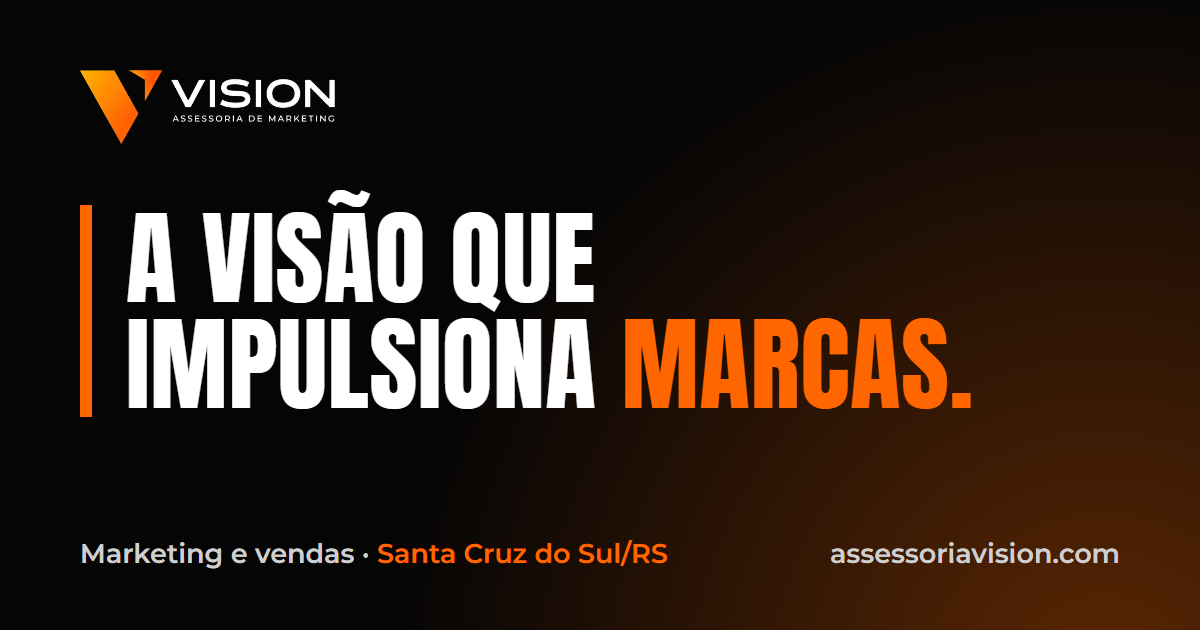
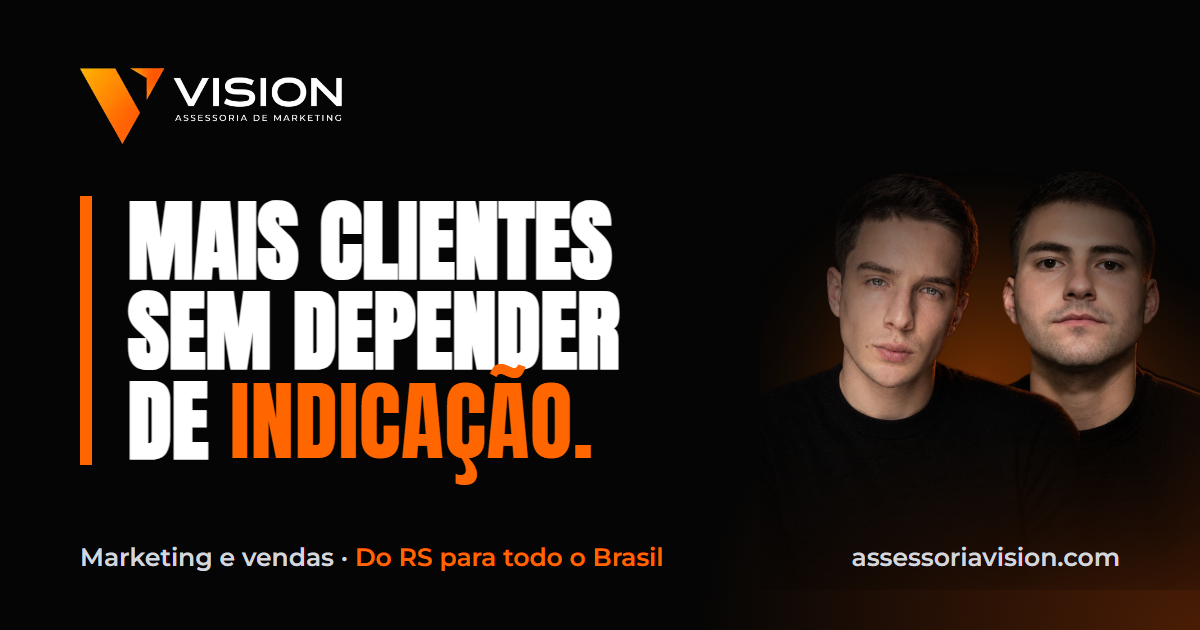
Imagem de compartilhamento nova: Mais clientes sem depender de indicação

diff --git a/index.html b/index.html
@@ -13,19 +13,19 @@
 <meta property="og:title" content="Assessoria Vision | Marketing em Santa Cruz do Sul">
 <meta property="og:description" content="Assessoria de marketing e vendas em Santa Cruz do Sul para empresas que querem ser vistas, lembradas e escolhidas.">
 <meta property="og:url" content="https://assessoriavision.com/">
-<meta property="og:image" content="https://assessoriavision.com/previa.png">
+<meta property="og:image" content="https://assessoriavision.com/previa.png?v=2">
 <meta property="og:image:width" content="1200">
 <meta property="og:image:height" content="630">
-<meta property="og:image:alt" content="Assessoria Vision: a visão que impulsiona marcas.">
+<meta property="og:image:alt" content="Assessoria Vision: mais clientes sem depender de indicação.">
 <meta name="twitter:card" content="summary_large_image">
-<meta name="twitter:image" content="https://assessoriavision.com/previa.png">
+<meta name="twitter:image" content="https://assessoriavision.com/previa.png?v=2">
 <link rel="canonical" href="https://assessoriavision.com/">
 <link rel="icon" type="image/png" sizes="32x32" href="/icone-32.png">
 <link rel="icon" href="/favicon.ico" sizes="16x16 32x32">
 <link rel="icon" type="image/png" sizes="48x48" href="/icone-48.png">
 <link rel="icon" type="image/png" sizes="192x192" href="/icone-192.png">
 <link rel="apple-touch-icon" sizes="180x180" href="/icone-180.png">
-<script type="application/ld+json">{"@context": "https://schema.org", "@type": "ProfessionalService", "name": "Assessoria Vision", "url": "https://assessoriavision.com/", "logo": "https://assessoriavision.com/icone-512.png", "image": "https://assessoriavision.com/previa.png", "description": "Assessoria de marketing e vendas para empresas de Santa Cruz do Sul, do Vale do Rio Pardo e de todo o Rio Grande do Sul.", "areaServed": [{"@type": "City", "name": "Santa Cruz do Sul"}, {"@type": "City", "name": "Venâncio Aires"}, {"@type": "City", "name": "Vera Cruz"}, {"@type": "City", "name": "Rio Pardo"}, {"@type": "City", "name": "Candelária"}, {"@type": "City", "name": "Sinimbu"}, {"@type": "City", "name": "Passo do Sobrado"}, {"@type": "State", "name": "Rio Grande do Sul"}, {"@type": "Country", "name": "Brasil"}], "telephone": "+55 51 99783-0110", "email": "ctt.agenciavision@gmail.com", "address": {"@type": "PostalAddress", "addressLocality": "Santa Cruz do Sul", "addressRegion": "RS", "addressCountry": "BR"}, "openingHoursSpecification": [{"@type": "OpeningHoursSpecification", "dayOfWeek": ["Monday", "Tuesday", "Wednesday", "Thursday", "Friday"], "opens": "08:00", "closes": "19:00"}], "sameAs": ["https://www.instagram.com/vision.assessoria"]}</script>
+<script type="application/ld+json">{"@context": "https://schema.org", "@type": "ProfessionalService", "name": "Assessoria Vision", "url": "https://assessoriavision.com/", "logo": "https://assessoriavision.com/icone-512.png", "image": "https://assessoriavision.com/previa.png?v=2", "description": "Assessoria de marketing e vendas para empresas de Santa Cruz do Sul, do Vale do Rio Pardo e de todo o Rio Grande do Sul.", "areaServed": [{"@type": "City", "name": "Santa Cruz do Sul"}, {"@type": "City", "name": "Venâncio Aires"}, {"@type": "City", "name": "Vera Cruz"}, {"@type": "City", "name": "Rio Pardo"}, {"@type": "City", "name": "Candelária"}, {"@type": "City", "name": "Sinimbu"}, {"@type": "City", "name": "Passo do Sobrado"}, {"@type": "State", "name": "Rio Grande do Sul"}, {"@type": "Country", "name": "Brasil"}], "telephone": "+55 51 99783-0110", "email": "ctt.agenciavision@gmail.com", "address": {"@type": "PostalAddress", "addressLocality": "Santa Cruz do Sul", "addressRegion": "RS", "addressCountry": "BR"}, "openingHoursSpecification": [{"@type": "OpeningHoursSpecification", "dayOfWeek": ["Monday", "Tuesday", "Wednesday", "Thursday", "Friday"], "opens": "08:00", "closes": "19:00"}], "sameAs": ["https://www.instagram.com/vision.assessoria"]}</script>
 <script type="application/ld+json">{"@context":"https://schema.org","@type":"FAQPage","mainEntity":[{"@type":"Question","name":"Quanto custa o serviço?","acceptedAnswer":{"@type":"Answer","text":"O valor depende do que a sua empresa precisa: quais serviços, quantas redes sociais e qual o objetivo. Por isso começamos com uma conversa e montamos uma proposta sob medida."}},{"@type":"Question","name":"Em quanto tempo vou ver resultado?","acceptedAnswer":{"@type":"Answer","text":"Depende do ponto de partida e do objetivo. Anúncios costumam dar os primeiros sinais mais rápido, enquanto presença e reconhecimento de marca se constroem ao longo de meses. Acompanhamos os números para ajustar o que for preciso."}},{"@type":"Question","name":"Preciso já ter perfil, logo ou site?","acceptedAnswer":{"@type":"Answer","text":"Não. Se você ainda não tem, criamos a identidade visual e organizamos a sua presença. Se já tem, melhoramos o que existe."}},{"@type":"Question","name":"O que eu preciso fornecer para começar?","acceptedAnswer":{"@type":"Answer","text":"Só o básico sobre a sua empresa: o que você vende, para quem vende e aonde quer chegar. Do resto cuidamos nós."}},{"@type":"Question","name":"Posso contratar só um serviço?","acceptedAnswer":{"@type":"Answer","text":"Pode. Você escolhe só o que precisa, como gestão de redes sociais ou tráfego pago, ou combina vários serviços."}},{"@type":"Question","name":"A Vision atende o meu tipo de negócio?","acceptedAnswer":{"@type":"Answer","text":"Atendemos comércio, alimentação, saúde, beleza, serviços e indústria, em todo o Brasil. Se a sua empresa vende para pessoas, a gente consegue ajudar."}},{"@type":"Question","name":"Como eu começo?","acceptedAnswer":{"@type":"Answer","text":"Peça o diagnóstico gratuito: você preenche os seus dados em menos de 1 minuto e a gente te liga em até 24 horas para mostrar, em 10 minutos, por onde começar."}}]}</script>
 <script type="application/ld+json">{"@context": "https://schema.org", "@type": "WebSite", "name": "Assessoria Vision", "alternateName": ["Vision", "Vision Assessoria de Marketing"], "url": "https://assessoriavision.com/"}</script>
 <!-- Google Analytics 4 com modo de consentimento: só mede depois que o visitante aceita -->

diff --git a/diagnostico/index.html b/diagnostico/index.html
@@ -13,19 +13,19 @@
 <meta property="og:title" content="Diagnóstico gratuito | Assessoria Vision">
 <meta property="og:description" content="Descubra onde a sua empresa está perdendo cliente. Responda algumas perguntas e receba o diagnóstico gratuito.">
 <meta property="og:url" content="https://assessoriavision.com/diagnostico/">
-<meta property="og:image" content="https://assessoriavision.com/previa.png">
+<meta property="og:image" content="https://assessoriavision.com/previa.png?v=2">
 <meta property="og:image:width" content="1200">
 <meta property="og:image:height" content="630">
-<meta property="og:image:alt" content="Assessoria Vision: a visão que impulsiona marcas.">
+<meta property="og:image:alt" content="Assessoria Vision: mais clientes sem depender de indicação.">
 <meta name="twitter:card" content="summary_large_image">
-<meta name="twitter:image" content="https://assessoriavision.com/previa.png">
+<meta name="twitter:image" content="https://assessoriavision.com/previa.png?v=2">
 <link rel="canonical" href="https://assessoriavision.com/diagnostico/">
 <link rel="icon" type="image/png" sizes="32x32" href="/icone-32.png">
 <link rel="icon" href="/favicon.ico" sizes="16x16 32x32">
 <link rel="icon" type="image/png" sizes="48x48" href="/icone-48.png">
 <link rel="icon" type="image/png" sizes="192x192" href="/icone-192.png">
 <link rel="apple-touch-icon" sizes="180x180" href="/icone-180.png">
-<script type="application/ld+json">{"@context": "https://schema.org", "@type": "ProfessionalService", "name": "Assessoria Vision", "url": "https://assessoriavision.com/", "logo": "https://assessoriavision.com/icone-512.png", "image": "https://assessoriavision.com/previa.png", "description": "Assessoria de marketing e vendas para empresas de Santa Cruz do Sul, do Vale do Rio Pardo e de todo o Rio Grande do Sul.", "areaServed": [{"@type": "City", "name": "Santa Cruz do Sul"}, {"@type": "City", "name": "Venâncio Aires"}, {"@type": "City", "name": "Vera Cruz"}, {"@type": "City", "name": "Rio Pardo"}, {"@type": "City", "name": "Candelária"}, {"@type": "City", "name": "Sinimbu"}, {"@type": "City", "name": "Passo do Sobrado"}, {"@type": "State", "name": "Rio Grande do Sul"}, {"@type": "Country", "name": "Brasil"}], "telephone": "+55 51 99783-0110", "email": "ctt.agenciavision@gmail.com", "address": {"@type": "PostalAddress", "addressLocality": "Santa Cruz do Sul", "addressRegion": "RS", "addressCountry": "BR"}, "openingHoursSpecification": [{"@type": "OpeningHoursSpecification", "dayOfWeek": ["Monday", "Tuesday", "Wednesday", "Thursday", "Friday"], "opens": "08:00", "closes": "19:00"}], "sameAs": ["https://www.instagram.com/vision.assessoria"]}</script>
+<script type="application/ld+json">{"@context": "https://schema.org", "@type": "ProfessionalService", "name": "Assessoria Vision", "url": "https://assessoriavision.com/", "logo": "https://assessoriavision.com/icone-512.png", "image": "https://assessoriavision.com/previa.png?v=2", "description": "Assessoria de marketing e vendas para empresas de Santa Cruz do Sul, do Vale do Rio Pardo e de todo o Rio Grande do Sul.", "areaServed": [{"@type": "City", "name": "Santa Cruz do Sul"}, {"@type": "City", "name": "Venâncio Aires"}, {"@type": "City", "name": "Vera Cruz"}, {"@type": "City", "name": "Rio Pardo"}, {"@type": "City", "name": "Candelária"}, {"@type": "City", "name": "Sinimbu"}, {"@type": "City", "name": "Passo do Sobrado"}, {"@type": "State", "name": "Rio Grande do Sul"}, {"@type": "Country", "name": "Brasil"}], "telephone": "+55 51 99783-0110", "email": "ctt.agenciavision@gmail.com", "address": {"@type": "PostalAddress", "addressLocality": "Santa Cruz do Sul", "addressRegion": "RS", "addressCountry": "BR"}, "openingHoursSpecification": [{"@type": "OpeningHoursSpecification", "dayOfWeek": ["Monday", "Tuesday", "Wednesday", "Thursday", "Friday"], "opens": "08:00", "closes": "19:00"}], "sameAs": ["https://www.instagram.com/vision.assessoria"]}</script>
 <script type="application/ld+json">{"@context": "https://schema.org", "@type": "WebSite", "name": "Assessoria Vision", "alternateName": ["Vision", "Vision Assessoria de Marketing"], "url": "https://assessoriavision.com/"}</script>
 <!-- Google Analytics 4 com modo de consentimento: só mede depois que o visitante aceita -->
 <script>

diff --git a/quem-somos/index.html b/quem-somos/index.html
@@ -13,19 +13,19 @@
 <meta property="og:title" content="Quem somos | Assessoria Vision">
 <meta property="og:description" content="Conheça os dois sócios por trás da Assessoria Vision e como eles trabalham lado a lado com o dono da empresa.">
 <meta property="og:url" content="https://assessoriavision.com/quem-somos/">
-<meta property="og:image" content="https://assessoriavision.com/previa.png">
+<meta property="og:image" content="https://assessoriavision.com/previa.png?v=2">
 <meta property="og:image:width" content="1200">
 <meta property="og:image:height" content="630">
-<meta property="og:image:alt" content="Assessoria Vision: a visão que impulsiona marcas.">
+<meta property="og:image:alt" content="Assessoria Vision: mais clientes sem depender de indicação.">
 <meta name="twitter:card" content="summary_large_image">
-<meta name="twitter:image" content="https://assessoriavision.com/previa.png">
+<meta name="twitter:image" content="https://assessoriavision.com/previa.png?v=2">
 <link rel="canonical" href="https://assessoriavision.com/quem-somos/">
 <link rel="icon" type="image/png" sizes="32x32" href="/icone-32.png">
 <link rel="icon" href="/favicon.ico" sizes="16x16 32x32">
 <link rel="icon" type="image/png" sizes="48x48" href="/icone-48.png">
 <link rel="icon" type="image/png" sizes="192x192" href="/icone-192.png">
 <link rel="apple-touch-icon" sizes="180x180" href="/icone-180.png">
-<script type="application/ld+json">{"@context": "https://schema.org", "@type": "ProfessionalService", "name": "Assessoria Vision", "url": "https://assessoriavision.com/", "logo": "https://assessoriavision.com/icone-512.png", "image": "https://assessoriavision.com/previa.png", "description": "Assessoria de marketing e vendas para empresas de Santa Cruz do Sul, do Vale do Rio Pardo e de todo o Rio Grande do Sul.", "areaServed": [{"@type": "City", "name": "Santa Cruz do Sul"}, {"@type": "City", "name": "Venâncio Aires"}, {"@type": "City", "name": "Vera Cruz"}, {"@type": "City", "name": "Rio Pardo"}, {"@type": "City", "name": "Candelária"}, {"@type": "City", "name": "Sinimbu"}, {"@type": "City", "name": "Passo do Sobrado"}, {"@type": "State", "name": "Rio Grande do Sul"}, {"@type": "Country", "name": "Brasil"}], "telephone": "+55 51 99783-0110", "email": "ctt.agenciavision@gmail.com", "address": {"@type": "PostalAddress", "addressLocality": "Santa Cruz do Sul", "addressRegion": "RS", "addressCountry": "BR"}, "openingHoursSpecification": [{"@type": "OpeningHoursSpecification", "dayOfWeek": ["Monday", "Tuesday", "Wednesday", "Thursday", "Friday"], "opens": "08:00", "closes": "19:00"}], "sameAs": ["https://www.instagram.com/vision.assessoria"]}</script>
+<script type="application/ld+json">{"@context": "https://schema.org", "@type": "ProfessionalService", "name": "Assessoria Vision", "url": "https://assessoriavision.com/", "logo": "https://assessoriavision.com/icone-512.png", "image": "https://assessoriavision.com/previa.png?v=2", "description": "Assessoria de marketing e vendas para empresas de Santa Cruz do Sul, do Vale do Rio Pardo e de todo o Rio Grande do Sul.", "areaServed": [{"@type": "City", "name": "Santa Cruz do Sul"}, {"@type": "City", "name": "Venâncio Aires"}, {"@type": "City", "name": "Vera Cruz"}, {"@type": "City", "name": "Rio Pardo"}, {"@type": "City", "name": "Candelária"}, {"@type": "City", "name": "Sinimbu"}, {"@type": "City", "name": "Passo do Sobrado"}, {"@type": "State", "name": "Rio Grande do Sul"}, {"@type": "Country", "name": "Brasil"}], "telephone": "+55 51 99783-0110", "email": "ctt.agenciavision@gmail.com", "address": {"@type": "PostalAddress", "addressLocality": "Santa Cruz do Sul", "addressRegion": "RS", "addressCountry": "BR"}, "openingHoursSpecification": [{"@type": "OpeningHoursSpecification", "dayOfWeek": ["Monday", "Tuesday", "Wednesday", "Thursday", "Friday"], "opens": "08:00", "closes": "19:00"}], "sameAs": ["https://www.instagram.com/vision.assessoria"]}</script>
 <script type="application/ld+json">{"@context": "https://schema.org", "@type": "WebSite", "name": "Assessoria Vision", "alternateName": ["Vision", "Vision Assessoria de Marketing"], "url": "https://assessoriavision.com/"}</script>
 <!-- Google Analytics 4 com modo de consentimento: só mede depois que o visitante aceita -->
 <script>

diff --git a/obrigado/index.html b/obrigado/index.html
@@ -14,19 +14,19 @@
 <meta property="og:title" content="Pedido recebido | Assessoria Vision">
 <meta property="og:description" content="Recebemos o seu pedido de diagnóstico. A Vision liga em até 24 horas.">
 <meta property="og:url" content="https://assessoriavision.com/obrigado/">
-<meta property="og:image" content="https://assessoriavision.com/previa.png">
+<meta property="og:image" content="https://assessoriavision.com/previa.png?v=2">
 <meta property="og:image:width" content="1200">
 <meta property="og:image:height" content="630">
-<meta property="og:image:alt" content="Assessoria Vision: a visão que impulsiona marcas.">
+<meta property="og:image:alt" content="Assessoria Vision: mais clientes sem depender de indicação.">
 <meta name="twitter:card" content="summary_large_image">
-<meta name="twitter:image" content="https://assessoriavision.com/previa.png">
+<meta name="twitter:image" content="https://assessoriavision.com/previa.png?v=2">
 <link rel="canonical" href="https://assessoriavision.com/obrigado/">
 <link rel="icon" type="image/png" sizes="32x32" href="/icone-32.png">
 <link rel="icon" href="/favicon.ico" sizes="16x16 32x32">
 <link rel="icon" type="image/png" sizes="48x48" href="/icone-48.png">
 <link rel="icon" type="image/png" sizes="192x192" href="/icone-192.png">
 <link rel="apple-touch-icon" sizes="180x180" href="/icone-180.png">
-<script type="application/ld+json">{"@context": "https://schema.org", "@type": "ProfessionalService", "name": "Assessoria Vision", "url": "https://assessoriavision.com/", "logo": "https://assessoriavision.com/icone-512.png", "image": "https://assessoriavision.com/previa.png", "description": "Assessoria de marketing e vendas para empresas de Santa Cruz do Sul, do Vale do Rio Pardo e de todo o Rio Grande do Sul.", "areaServed": [{"@type": "City", "name": "Santa Cruz do Sul"}, {"@type": "City", "name": "Venâncio Aires"}, {"@type": "City", "name": "Vera Cruz"}, {"@type": "City", "name": "Rio Pardo"}, {"@type": "City", "name": "Candelária"}, {"@type": "City", "name": "Sinimbu"}, {"@type": "City", "name": "Passo do Sobrado"}, {"@type": "State", "name": "Rio Grande do Sul"}], "telephone": "+55 51 99783-0110", "email": "ctt.agenciavision@gmail.com", "address": {"@type": "PostalAddress", "addressLocality": "Santa Cruz do Sul", "addressRegion": "RS", "addressCountry": "BR"}, "openingHoursSpecification": [{"@type": "OpeningHoursSpecification", "dayOfWeek": ["Monday", "Tuesday", "Wednesday", "Thursday", "Friday"], "opens": "08:00", "closes": "19:00"}], "sameAs": ["https://www.instagram.com/vision.assessoria"]}</script>
+<script type="application/ld+json">{"@context": "https://schema.org", "@type": "ProfessionalService", "name": "Assessoria Vision", "url": "https://assessoriavision.com/", "logo": "https://assessoriavision.com/icone-512.png", "image": "https://assessoriavision.com/previa.png?v=2", "description": "Assessoria de marketing e vendas para empresas de Santa Cruz do Sul, do Vale do Rio Pardo e de todo o Rio Grande do Sul.", "areaServed": [{"@type": "City", "name": "Santa Cruz do Sul"}, {"@type": "City", "name": "Venâncio Aires"}, {"@type": "City", "name": "Vera Cruz"}, {"@type": "City", "name": "Rio Pardo"}, {"@type": "City", "name": "Candelária"}, {"@type": "City", "name": "Sinimbu"}, {"@type": "City", "name": "Passo do Sobrado"}, {"@type": "State", "name": "Rio Grande do Sul"}], "telephone": "+55 51 99783-0110", "email": "ctt.agenciavision@gmail.com", "address": {"@type": "PostalAddress", "addressLocality": "Santa Cruz do Sul", "addressRegion": "RS", "addressCountry": "BR"}, "openingHoursSpecification": [{"@type": "OpeningHoursSpecification", "dayOfWeek": ["Monday", "Tuesday", "Wednesday", "Thursday", "Friday"], "opens": "08:00", "closes": "19:00"}], "sameAs": ["https://www.instagram.com/vision.assessoria"]}</script>
 <script type="application/ld+json">{"@context": "https://schema.org", "@type": "WebSite", "name": "Assessoria Vision", "alternateName": ["Vision", "Vision Assessoria de Marketing"], "url": "https://assessoriavision.com/"}</script>
 <!-- Google Analytics 4 com modo de consentimento: só mede depois que o visitante aceita -->
 <script>

diff --git a/404.html b/404.html
@@ -14,19 +14,19 @@
 <meta property="og:title" content="Página não encontrada | Assessoria Vision">
 <meta property="og:description" content="Esta página não existe ou mudou de endereço.">
 <meta property="og:url" content="https://assessoriavision.com/">
-<meta property="og:image" content="https://assessoriavision.com/previa.png">
+<meta property="og:image" content="https://assessoriavision.com/previa.png?v=2">
 <meta property="og:image:width" content="1200">
 <meta property="og:image:height" content="630">
-<meta property="og:image:alt" content="Assessoria Vision: a visão que impulsiona marcas.">
+<meta property="og:image:alt" content="Assessoria Vision: mais clientes sem depender de indicação.">
 <meta name="twitter:card" content="summary_large_image">
-<meta name="twitter:image" content="https://assessoriavision.com/previa.png">
+<meta name="twitter:image" content="https://assessoriavision.com/previa.png?v=2">
 <link rel="canonical" href="https://assessoriavision.com/">
 <link rel="icon" type="image/png" sizes="32x32" href="/icone-32.png">
 <link rel="icon" href="/favicon.ico" sizes="16x16 32x32">
 <link rel="icon" type="image/png" sizes="48x48" href="/icone-48.png">
 <link rel="icon" type="image/png" sizes="192x192" href="/icone-192.png">
 <link rel="apple-touch-icon" sizes="180x180" href="/icone-180.png">
-<script type="application/ld+json">{"@context": "https://schema.org", "@type": "ProfessionalService", "name": "Assessoria Vision", "url": "https://assessoriavision.com/", "logo": "https://assessoriavision.com/icone-512.png", "image": "https://assessoriavision.com/previa.png", "description": "Assessoria de marketing e vendas para empresas de Santa Cruz do Sul, do Vale do Rio Pardo e de todo o Rio Grande do Sul.", "areaServed": [{"@type": "City", "name": "Santa Cruz do Sul"}, {"@type": "City", "name": "Venâncio Aires"}, {"@type": "City", "name": "Vera Cruz"}, {"@type": "City", "name": "Rio Pardo"}, {"@type": "City", "name": "Candelária"}, {"@type": "City", "name": "Sinimbu"}, {"@type": "City", "name": "Passo do Sobrado"}, {"@type": "State", "name": "Rio Grande do Sul"}], "telephone": "+55 51 99783-0110", "email": "ctt.agenciavision@gmail.com", "address": {"@type": "PostalAddress", "addressLocality": "Santa Cruz do Sul", "addressRegion": "RS", "addressCountry": "BR"}, "openingHoursSpecification": [{"@type": "OpeningHoursSpecification", "dayOfWeek": ["Monday", "Tuesday", "Wednesday", "Thursday", "Friday"], "opens": "08:00", "closes": "19:00"}], "sameAs": ["https://www.instagram.com/vision.assessoria"]}</script>
+<script type="application/ld+json">{"@context": "https://schema.org", "@type": "ProfessionalService", "name": "Assessoria Vision", "url": "https://assessoriavision.com/", "logo": "https://assessoriavision.com/icone-512.png", "image": "https://assessoriavision.com/previa.png?v=2", "description": "Assessoria de marketing e vendas para empresas de Santa Cruz do Sul, do Vale do Rio Pardo e de todo o Rio Grande do Sul.", "areaServed": [{"@type": "City", "name": "Santa Cruz do Sul"}, {"@type": "City", "name": "Venâncio Aires"}, {"@type": "City", "name": "Vera Cruz"}, {"@type": "City", "name": "Rio Pardo"}, {"@type": "City", "name": "Candelária"}, {"@type": "City", "name": "Sinimbu"}, {"@type": "City", "name": "Passo do Sobrado"}, {"@type": "State", "name": "Rio Grande do Sul"}], "telephone": "+55 51 99783-0110", "email": "ctt.agenciavision@gmail.com", "address": {"@type": "PostalAddress", "addressLocality": "Santa Cruz do Sul", "addressRegion": "RS", "addressCountry": "BR"}, "openingHoursSpecification": [{"@type": "OpeningHoursSpecification", "dayOfWeek": ["Monday", "Tuesday", "Wednesday", "Thursday", "Friday"], "opens": "08:00", "closes": "19:00"}], "sameAs": ["https://www.instagram.com/vision.assessoria"]}</script>
 <script type="application/ld+json">{"@context": "https://schema.org", "@type": "WebSite", "name": "Assessoria Vision", "alternateName": ["Vision", "Vision Assessoria de Marketing"], "url": "https://assessoriavision.com/"}</script>
 <!-- Google Analytics 4 com modo de consentimento: só mede depois que o visitante aceita -->
 <script>
